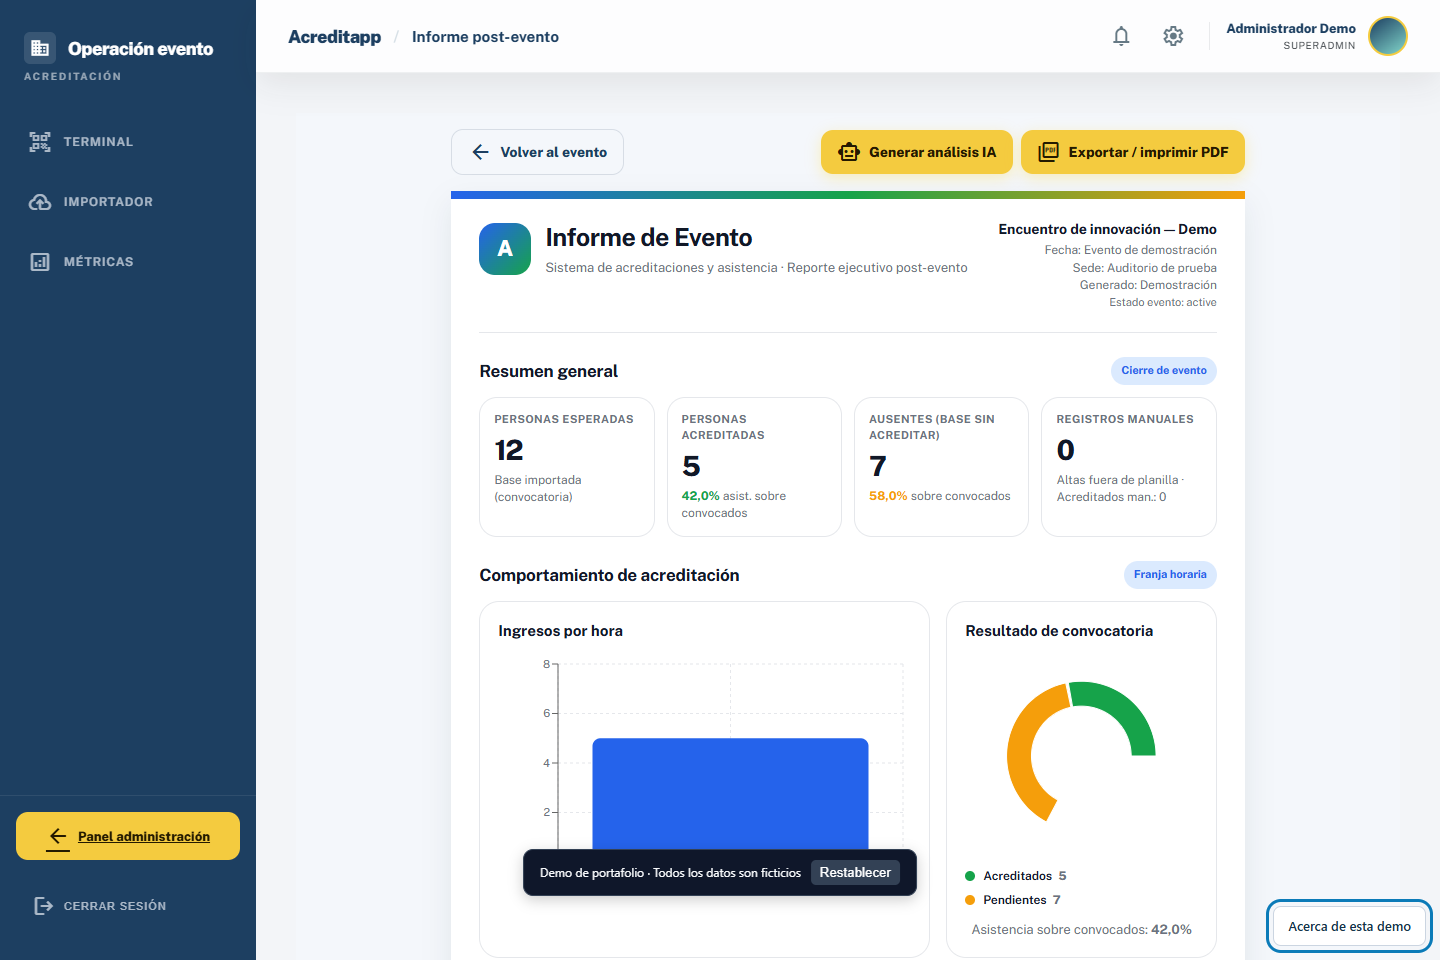
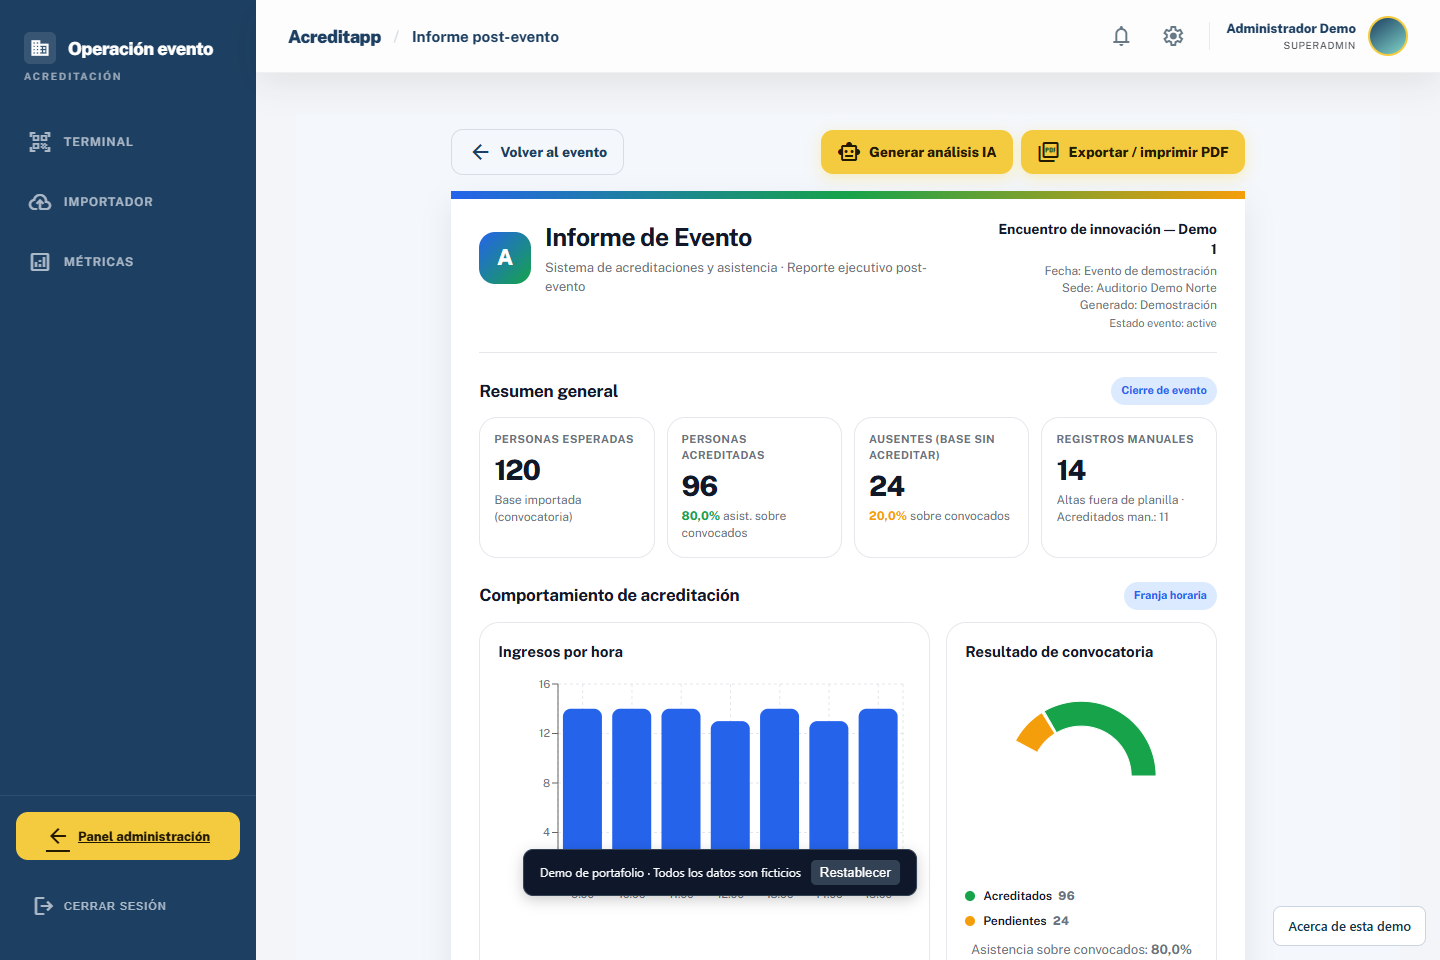
Populate portfolio demos with synthetic work scenarios and activity

diff --git a/README.md b/README.md
@@ -95,3 +95,5 @@ Los cinco accesos del portafolio apuntan a `/demos/[slug]` y redirigen a las URL
 Las cinco copias usan UTF-8 y eliminan las referencias a GCBA del código, los títulos y las etiquetas. Cada una presenta una bienvenida con su nombre, una descripción y acciones para explorar. El texto sobre su uso en un ambiente de trabajo con más de 360 personas fue proporcionado por el autor. La bienvenida recuerda su cierre durante la sesión y se puede volver a abrir con «Acerca de esta demo». Los datos de las demostraciones siguen siendo ficticios. La comprobación de bienvenida, teclado, codificación y vista móvil está en `.impeccable/review/demo-welcome-check.mjs`.
 
 Las cinco demos se pueden usar directamente desde sus ventanas del escritorio. La barra permite alternar entre Demo y Proyecto, recargar desde el inicio o abrir otra pestaña; los casos de estudio siguen disponibles. Cambiar de vista o minimizar conserva la navegación de la demo. La comprobación está en `.impeccable/review/project-browser-check.mjs`.
+
+Las demos incluyen escenarios de trabajo con datos ficticios: Recursos Humanos tiene 96 personas, hojas de ruta, fichadas, escritorios, vacaciones, capacitaciones y reclamos; Acreditapp tiene 12 eventos y 1.968 inscripciones; Producción tiene 36 eventos y 144 requerimientos; SIGMA tiene 24 proyectos, 72 indicadores y cargas mensuales; Buscador Dotación tiene 1.200 personas y 18 eventos. Las operaciones simuladas se guardan en el navegador. En los cuatro SPA, los escenarios se renuevan al cambiar de día para mantener fechas cercanas a la visita. `.impeccable/review/expanded-demo-check.mjs` comprueba los registros y sus flujos.
